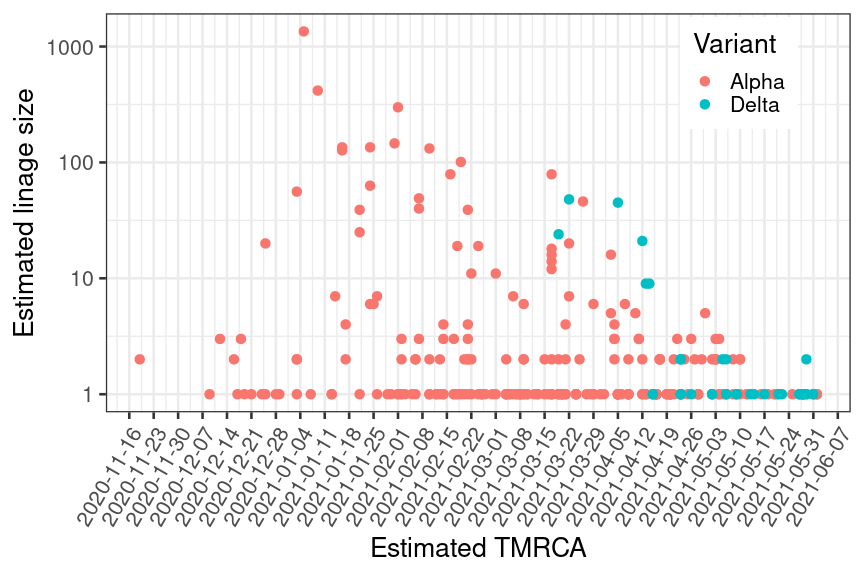
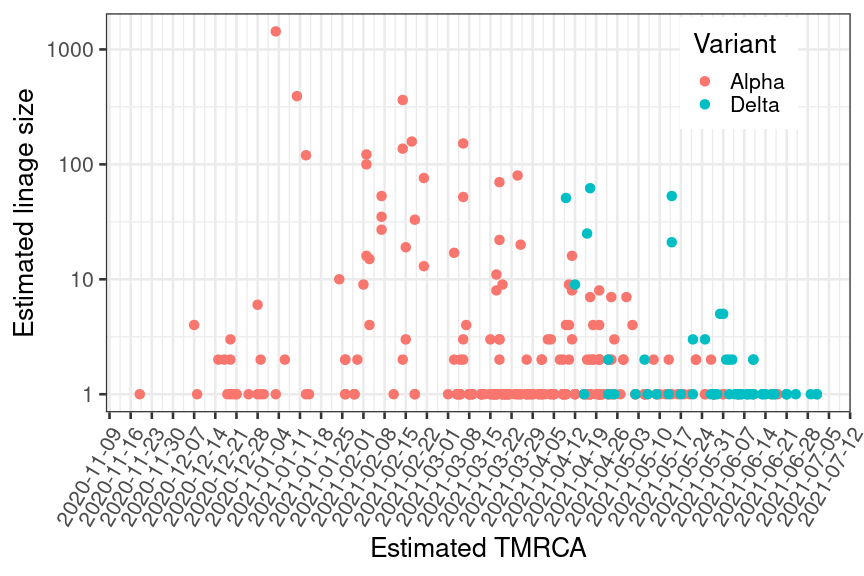
updated 07/13

diff --git a/alpha_vs_delta.md b/alpha_vs_delta.md
@@ -1,6 +1,6 @@
 Comparative varianttransmissibility: Alpha vs Delta
 ================
-28/06/2021
+13/07/2021
 
 In these analyses we compare B.1.1.7 (alpha variant) with B.1.617.2
 (delta variant) in terms of lineage sizes in Norway. Each inferred
